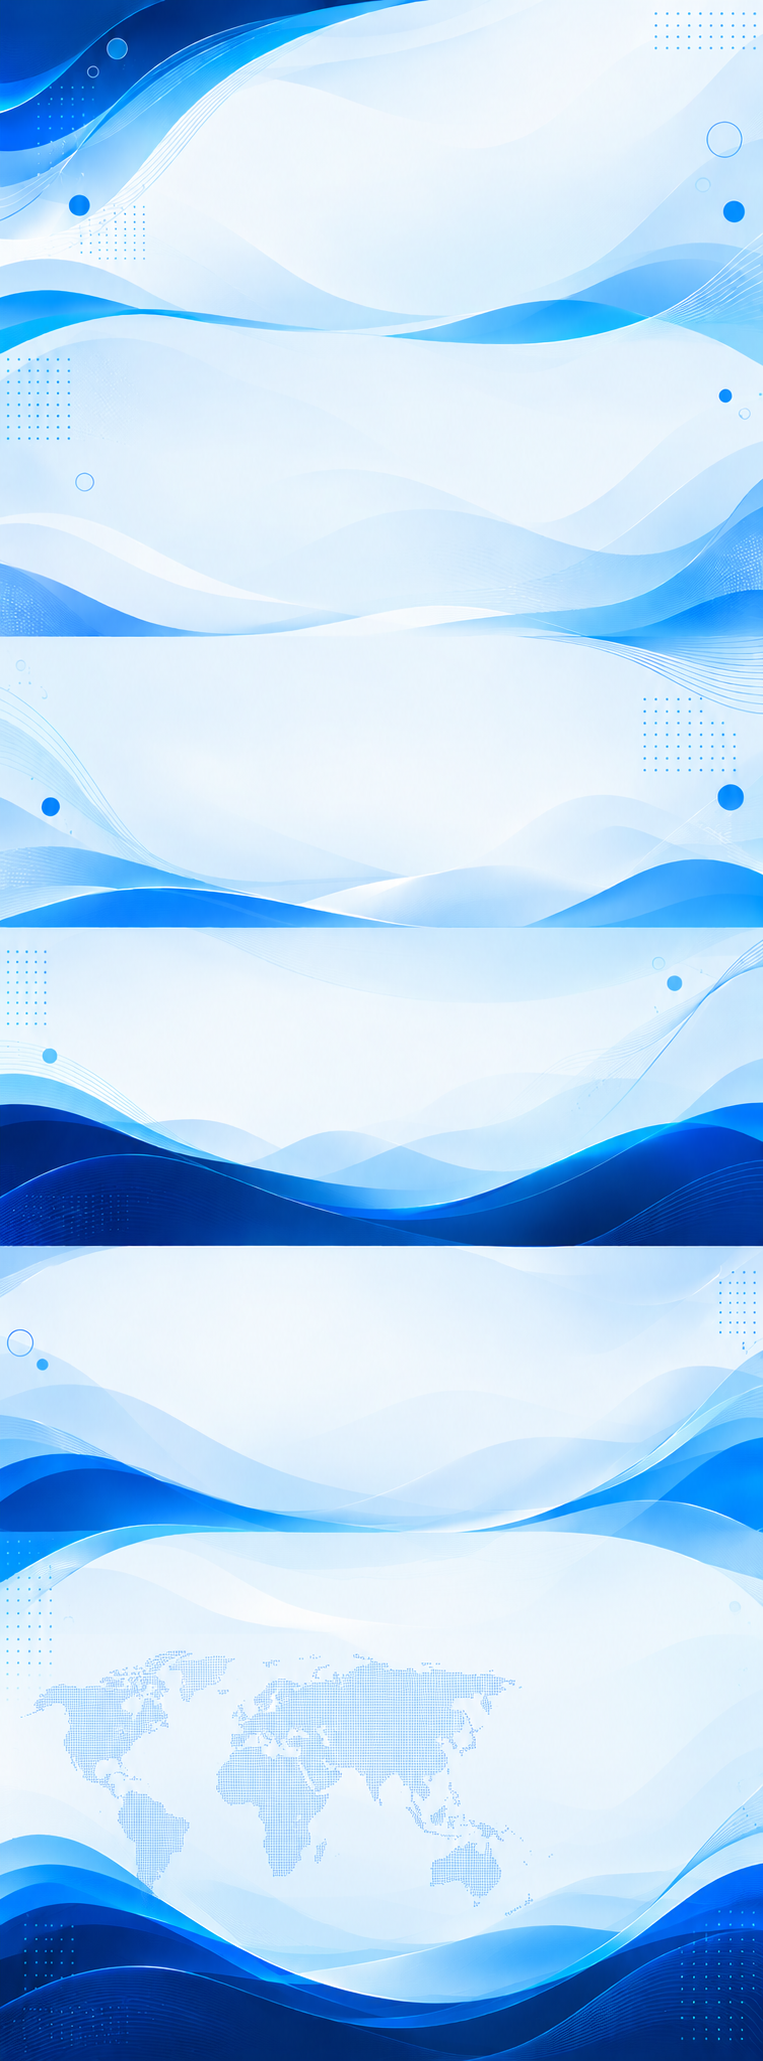
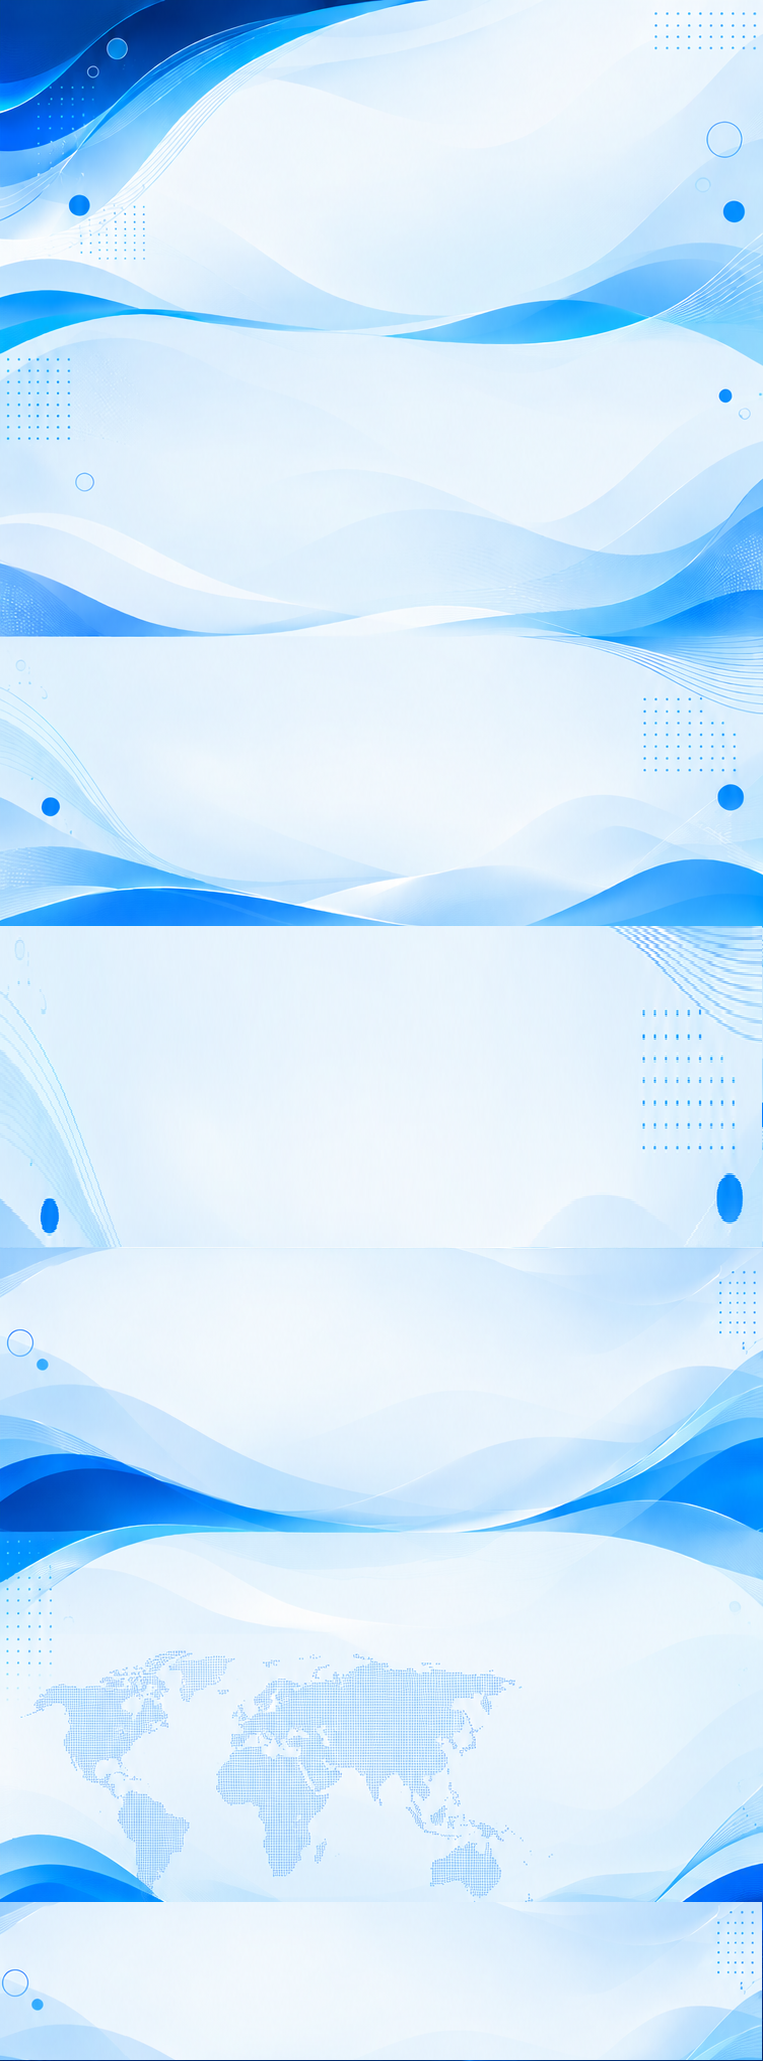
Add background image and texture overlay to Footer component

Changed region(s): [[0.0, 0.4347, 1.0, 0.6211], [0.0, 0.9005, 1.0, 1.0], [0.2713, 0.4347, 0.3617, 0.4658]]

diff --git a/src/components/Footer.jsx b/src/components/Footer.jsx
@@ -2,12 +2,24 @@ import React from 'react';
 import { Link } from 'react-router-dom';
 import { Mail, Phone, MapPin, Globe, Linkedin, Instagram, Facebook, Youtube, Github } from 'lucide-react';
 import logoImg from '../assets/logo.png';
+import mainBg from '../assets/main-bg.png';
+import globeBg from '../assets/globe-bg.jpg';
 
 const Footer = () => {
   return (
-    <footer className="bg-[#031126] text-slate-300 border-t border-blue-950 pt-16 pb-8">
-      <div className="max-w-[1400px] mx-auto px-4 sm:px-6 lg:px-8">
-        <div className="grid grid-cols-1 md:grid-cols-2 lg:grid-cols-12 gap-10 lg:gap-12 pb-12 border-b border-blue-950">
+    <footer 
+      className="relative bg-[#031126] text-slate-300 border-t border-blue-950 pt-16 pb-8 bg-cover bg-center bg-no-repeat overflow-hidden"
+      style={{ backgroundImage: `url(${mainBg})` }}
+    >
+      {/* Background Graphic & Texture Overlay */}
+      <div 
+        className="absolute inset-0 opacity-25 pointer-events-none bg-cover bg-center mix-blend-overlay"
+        style={{ backgroundImage: `url(${globeBg})` }}
+      />
+      <div className="absolute inset-0 bg-[#031126]/85 pointer-events-none" />
+
+      <div className="relative max-w-[1400px] mx-auto px-4 sm:px-6 lg:px-8 z-10">
+        <div className="grid grid-cols-1 md:grid-cols-2 lg:grid-cols-12 gap-10 lg:gap-12 pb-12 border-b border-blue-950/80">
           
           {/* Left: Brand & Description (4 columns) */}
           <div className="lg:col-span-4 space-y-5">
@@ -15,29 +27,29 @@ const Footer = () => {
               <img 
                 src={logoImg} 
                 alt="MS InnovateX Logo" 
-                className="h-12 w-auto object-contain" 
+                className="h-12 w-auto object-contain drop-shadow-md" 
               />
             </div>
 
-            <p className="text-sm text-slate-400 leading-relaxed max-w-sm font-normal">
+            <p className="text-sm text-slate-300 leading-relaxed max-w-sm font-normal">
               We build websites, mobile apps and custom software solutions, provide professional email marketing services and offer industry-focused training programs.
             </p>
 
             {/* Social Media Icons */}
             <div className="flex items-center space-x-3 pt-2">
-              <a href="https://linkedin.com" target="_blank" rel="noreferrer" className="w-9 h-9 rounded-full bg-blue-950 hover:bg-[#1264FF] text-slate-300 hover:text-white flex items-center justify-center transition-colors">
+              <a href="https://linkedin.com" target="_blank" rel="noreferrer" className="w-9 h-9 rounded-full bg-blue-950/80 border border-blue-900/60 hover:bg-[#1264FF] text-slate-300 hover:text-white flex items-center justify-center transition-colors">
                 <Linkedin className="w-4.5 h-4.5" />
               </a>
-              <a href="https://instagram.com" target="_blank" rel="noreferrer" className="w-9 h-9 rounded-full bg-blue-950 hover:bg-[#1264FF] text-slate-300 hover:text-white flex items-center justify-center transition-colors">
+              <a href="https://instagram.com" target="_blank" rel="noreferrer" className="w-9 h-9 rounded-full bg-blue-950/80 border border-blue-900/60 hover:bg-[#1264FF] text-slate-300 hover:text-white flex items-center justify-center transition-colors">
                 <Instagram className="w-4.5 h-4.5" />
               </a>
-              <a href="https://facebook.com" target="_blank" rel="noreferrer" className="w-9 h-9 rounded-full bg-blue-950 hover:bg-[#1264FF] text-slate-300 hover:text-white flex items-center justify-center transition-colors">
+              <a href="https://facebook.com" target="_blank" rel="noreferrer" className="w-9 h-9 rounded-full bg-blue-950/80 border border-blue-900/60 hover:bg-[#1264FF] text-slate-300 hover:text-white flex items-center justify-center transition-colors">
                 <Facebook className="w-4.5 h-4.5" />
               </a>
-              <a href="https://youtube.com" target="_blank" rel="noreferrer" className="w-9 h-9 rounded-full bg-blue-950 hover:bg-[#1264FF] text-slate-300 hover:text-white flex items-center justify-center transition-colors">
+              <a href="https://youtube.com" target="_blank" rel="noreferrer" className="w-9 h-9 rounded-full bg-blue-950/80 border border-blue-900/60 hover:bg-[#1264FF] text-slate-300 hover:text-white flex items-center justify-center transition-colors">
                 <Youtube className="w-4.5 h-4.5" />
               </a>
-              <a href="https://github.com" target="_blank" rel="noreferrer" className="w-9 h-9 rounded-full bg-blue-950 hover:bg-[#1264FF] text-slate-300 hover:text-white flex items-center justify-center transition-colors">
+              <a href="https://github.com" target="_blank" rel="noreferrer" className="w-9 h-9 rounded-full bg-blue-950/80 border border-blue-900/60 hover:bg-[#1264FF] text-slate-300 hover:text-white flex items-center justify-center transition-colors">
                 <Github className="w-4.5 h-4.5" />
               </a>
             </div>
@@ -48,7 +60,7 @@ const Footer = () => {
             <h4 className="text-sm font-extrabold text-white uppercase tracking-wider">
               Quick Links
             </h4>
-            <ul className="space-y-2.5 text-sm font-semibold">
+            <ul className="space-y-2.5 text-sm font-semibold text-slate-300">
               <li>
                 <Link to="/" className="hover:text-cyan-400 transition-colors">Home</Link>
               </li>
@@ -78,7 +90,7 @@ const Footer = () => {
             <h4 className="text-sm font-extrabold text-white uppercase tracking-wider">
               Client Solutions
             </h4>
-            <ul className="space-y-2.5 text-sm font-semibold text-slate-400">
+            <ul className="space-y-2.5 text-sm font-semibold text-slate-300">
               <li>
                 <Link to="/services" className="hover:text-cyan-400 transition-colors">Web Development</Link>
               </li>
@@ -108,7 +120,7 @@ const Footer = () => {
             <h4 className="text-sm font-extrabold text-white uppercase tracking-wider">
               Contact Details
             </h4>
-            <ul className="space-y-3 text-sm font-semibold text-slate-400">
+            <ul className="space-y-3 text-sm font-semibold text-slate-300">
               <li className="flex items-center gap-3">
                 <Phone className="w-4 h-4 text-cyan-400 shrink-0" />
                 <a href="tel:+919090625821" className="hover:text-white transition-colors">
@@ -145,12 +157,12 @@ const Footer = () => {
         </div>
 
         {/* Bottom Bar */}
-        <div className="pt-8 flex flex-col sm:flex-row items-center justify-between text-xs text-slate-500 font-semibold gap-4">
+        <div className="pt-8 flex flex-col sm:flex-row items-center justify-between text-xs text-slate-400 font-semibold gap-4">
           <p>© 2026 MS InnovateX. All Rights Reserved.</p>
           <div className="flex items-center space-x-6">
-            <Link to="/contact" className="hover:text-slate-300 transition-colors">Privacy Policy</Link>
+            <Link to="/contact" className="hover:text-slate-200 transition-colors">Privacy Policy</Link>
             <span>•</span>
-            <Link to="/contact" className="hover:text-slate-300 transition-colors">Terms & Conditions</Link>
+            <Link to="/contact" className="hover:text-slate-200 transition-colors">Terms & Conditions</Link>
           </div>
         </div>
 
